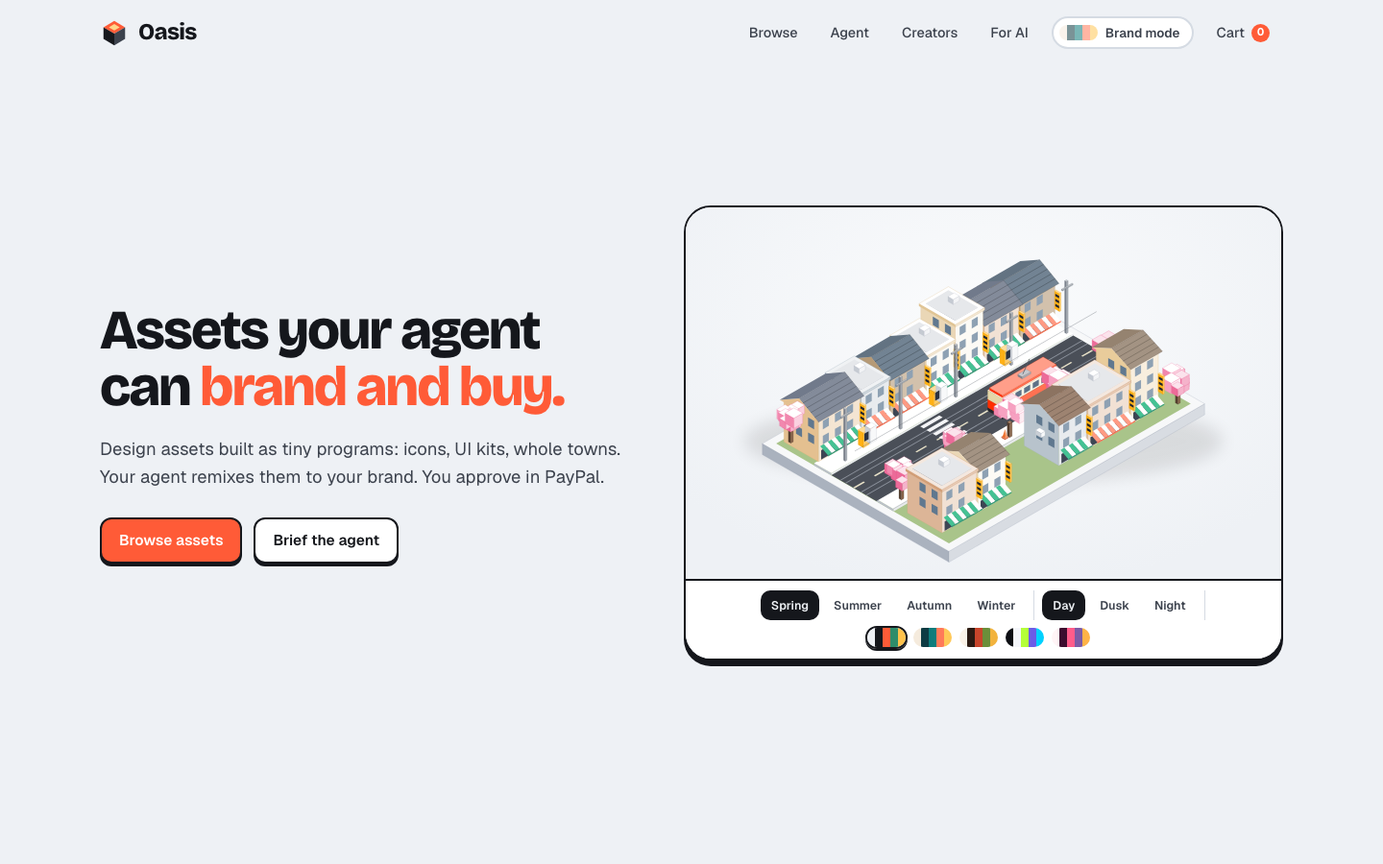
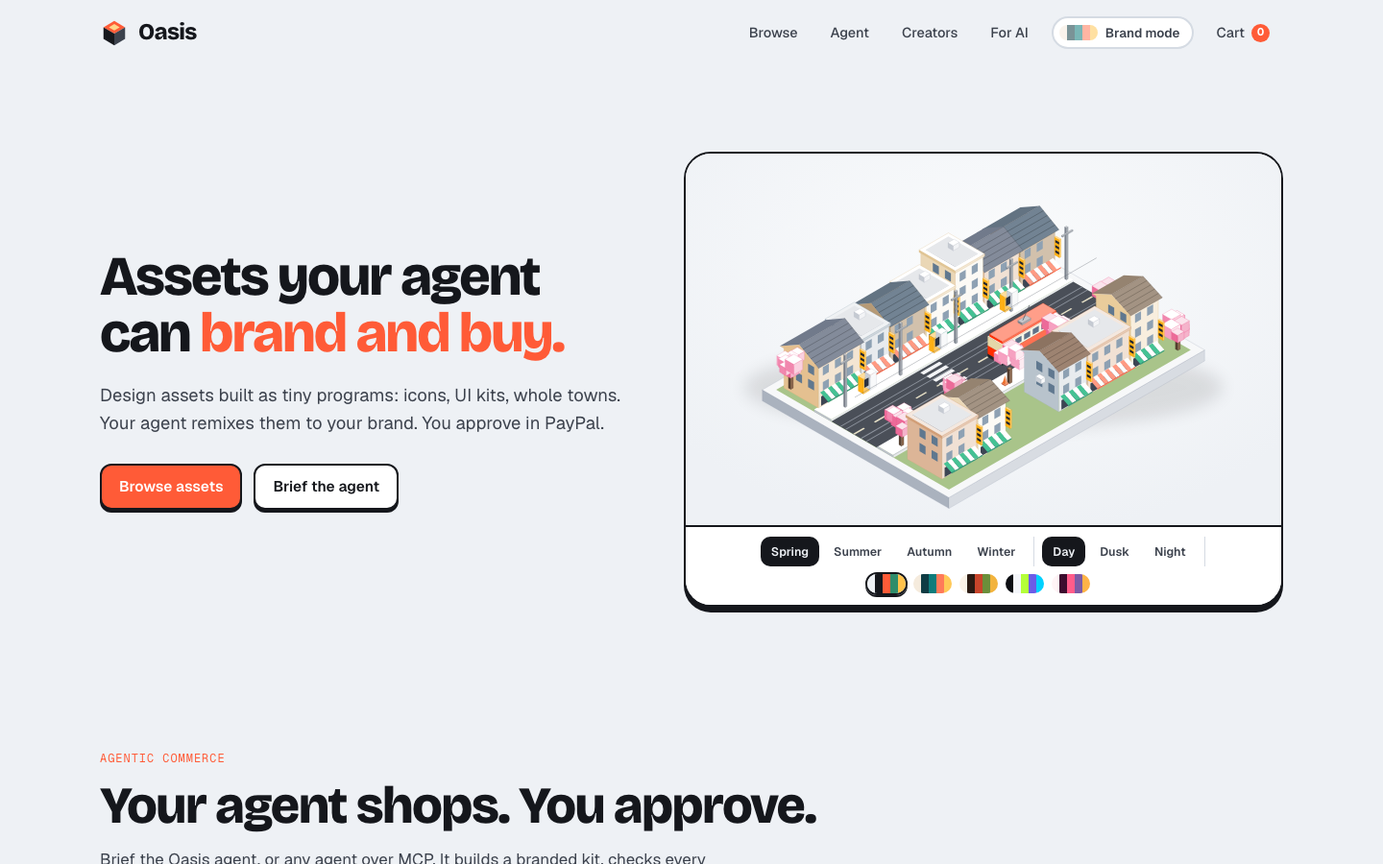
Agent page opens on the finished kit; rate limits, public MCP counter; replayed webhooks can't recapture
- Replay opens on the payoff: kit, itemised approval with reasons, cap meter; plays in ~12 s
- express-rate-limit on /mcp (120/min), create_order and /api/orders (10/min), /api/agent (6/min)
- /api/stats/mcp counts requests, tool calls and clients; shown on For AI with client configs
- Fix: a replayed CHECKOUT.ORDER.APPROVED after a refund called capture again; terminal states now return early (test added)

diff --git a/public/app.js b/public/app.js
@@ -608,7 +608,7 @@ function pageAgent() {
     const items = replayKit || cart.items;
     const total = items.reduce((s, i) => s + i.price, 0);
     $("#kit").innerHTML = items.length
-      ? `<div class="kit">${items.map((i) => `<div class="item"><img src="${esc(i.previewUrl)}" alt=""/><div><span>${esc(i.title)}</span><b>${money(i.price)}</b></div></div>`).join("")}</div><div class="total"><span>Total</span><b>${money(total)}</b></div>${replayKit ? `<p class="muted" style="margin:10px 0 0;font-size:12.5px">From the recorded run. Your own cart is untouched.</p>` : ""}`
+      ? `<div class="kit${items.length >= 4 ? " compact" : ""}">${items.map((i) => `<div class="item"><img src="${esc(i.previewUrl)}" alt=""/><div><span>${esc(i.title)}</span><b>${money(i.price)}</b></div></div>`).join("")}</div><div class="total"><span>Total</span><b>${money(total)}</b></div>${replayKit ? `<p class="muted" style="margin:10px 0 0;font-size:12.5px">From the recorded run. Your own cart is untouched.</p>` : ""}`
       : `<div class="empty">Remixes the agent picks land here.</div>`;
   };
   drawKit();
@@ -660,7 +660,7 @@ function pageAgent() {
             if (!replayKit) store.set("oasis.agent", session);
           } else if (ev === "cart_add") {
             const item = { ...data, previewUrl: data.previewUrl.replace(/^https?:\/\/[^/]+/, "") };
-            if (replayKit) replayKit.push(item); else cart.add(item);
+            if (!replayKit) cart.add(item);
             drawKit();
           } else if (ev === "checkout") {
             showCheckout(data);
@@ -678,12 +678,21 @@ function pageAgent() {
     const rec = await api("/replays/tidepool.json");
     if (!document.body.contains(log) || run !== replayRun) return;
     log.innerHTML = "";
-    replayKit = [];
+    // Open on the payoff: the finished kit and the approval the agent asks for. The log below shows how it got there.
+    replayKit = rec.events.filter(([e]) => e === "cart_add").map(([, d]) => ({ ...d, previewUrl: d.previewUrl.replace(/^https?:\/\/[^/]+/, "") }));
     drawKit();
+    const cap = 20, total = replayKit.reduce((s, i) => s + i.price, 0);
+    $("#checkout").innerHTML = `<div class="approve">
+      <p class="approve-head">What the agent asked you to approve</p>
+      <ul>${replayKit.map((i) => `<li><span><b>${esc(i.title)}</b>${i.reason ? `<em>${esc(i.reason)}</em>` : ""}</span><b>${money(i.price)}</b></li>`).join("")}</ul>
+      <div class="capmeter"><i style="width:${Math.min(100, (total / cap) * 100)}%"></i></div>
+      <p class="capnote ok">${money(total)} of your ${money(cap)} cap. The server refuses anything over it.</p>
+      <p class="muted" style="font-size:12px;margin:8px 0 0">In a live run the PayPal button appears here and only you can approve it. This server has no PayPal sandbox keys yet, so the recording stops at the order.</p>
+    </div>`;
     add(`<i></i>Replay of a real run recorded ${esc(new Date(rec.recorded).toLocaleString())}. Nothing here is staged.`, "toolrow");
     add(esc(rec.brief), "msg user");
     for (const [ev, data] of rec.events) {
-      await new Promise((r) => setTimeout(r, ev === "text" ? 400 : 550));
+      await new Promise((r) => setTimeout(r, ev === "text" ? 260 : 140));
       if (!document.body.contains(log) || run !== replayRun) return;
       handle(ev, data);
     }
@@ -822,8 +831,10 @@ function pageAgents() {
   app.innerHTML = `<div class="wrap" style="max-width:900px">
     <div class="crumbs"><h1>For AI agents</h1></div>
     <p style="font-size:17px" class="muted">Oasis is built to be shopped by agents. One MCP endpoint, no key to browse. Payments always come back to a human in PayPal.</p>
+    <div class="panel" id="mcp-live"><h3>Live traffic</h3><p class="muted" style="margin:0">Counting…</p></div>
     <div class="panel"><h3>Claude Code</h3><pre class="code">claude mcp add --transport http oasis ${esc(o)}/mcp</pre></div>
-    <div class="panel"><h3>Any MCP client</h3><pre class="code">{
+    <div class="panel"><h3>Claude Desktop and claude.ai</h3><p style="margin:0 0 8px">Settings → Connectors → Add custom connector, then paste:</p><pre class="code">${esc(o)}/mcp</pre></div>
+    <div class="panel"><h3>Cursor, VS Code and other MCP clients</h3><p style="margin:0 0 8px"><span class="mono">.cursor/mcp.json</span> or your client's MCP config:</p><pre class="code">{
   "mcpServers": {
     "oasis": { "type": "http", "url": "${esc(o)}/mcp" }
   }
@@ -838,7 +849,22 @@ function pageAgents() {
     <div class="panel"><h3>Plain HTTP</h3><pre class="code">GET ${esc(o)}/llms.txt
 GET ${esc(o)}/api/assets?q=pricing&amp;kind=ui
 GET ${esc(o)}/api/assets/pricing-card/render.svg?preset=Indigo</pre></div>
+    <div class="panel"><h3>What the server enforces</h3><ul class="plain">
+      <li>Prices come from the catalogue, never from the agent.</li>
+      <li><span class="mono">max_total_usd</span> is checked before PayPal is called; an order over it is refused (HTTP 402).</li>
+      <li>At most 10 orders a minute per client and 120 MCP calls a minute; over that, JSON-RPC error <span class="mono">-32029</span>.</li>
+      <li>No agent can pay. Every order waits for a human to approve it in PayPal.</li>
+    </ul><p style="margin:10px 0 0"><a href="https://github.com/machmoon/oasis/blob/main/docs/mcp-session.md">Read a recorded session</a> of an outside agent shopping by URL alone.</p></div>
   </div>`;
+  api("/api/stats/mcp").then((s) => {
+    const box = $("#mcp-live");
+    if (!box) return;
+    const tools = Object.entries(s.tools).sort((a, b) => b[1] - a[1]);
+    const clients = Object.entries(s.clients).sort((a, b) => b[1] - a[1]);
+    box.innerHTML = `<h3>Live traffic <span class="muted" style="text-transform:none;letter-spacing:0;font-weight:400">since ${esc(new Date(s.since).toLocaleDateString())}</span></h3>
+      <div class="stats3"><div><b>${s.requests}</b><span>MCP requests</span></div><div><b>${Object.values(s.tools).reduce((a, b) => a + b, 0)}</b><span>tool calls</span></div><div><b>${clients.length}</b><span>distinct clients</span></div></div>
+      ${tools.length ? `<p class="muted" style="margin:10px 0 0;font-size:13px">${tools.map(([t, n]) => `<span class="mono">${esc(t)}</span> ${n}`).join(" · ")}${clients.length ? `<br/>Clients: ${clients.map(([c, n]) => `${esc(c)} (${n})`).join(", ")}` : ""}</p>` : ""}`;
+  }).catch(() => {});
 }
 
 // ---------- router ----------

diff --git a/server/app.js b/server/app.js
@@ -1,4 +1,5 @@
 import express from "express";
+import { rateLimit } from "express-rate-limit";
 import fs from "node:fs";
 import crypto from "node:crypto";
 import { config, paypalConfigured } from "./config.js";
@@ -16,6 +17,7 @@ export async function createApp() {
   await catalog.load();
   const app = express();
   app.disable("x-powered-by");
+  app.set("trust proxy", 1); // Render terminates TLS in front of us; rate limits key on the client's IP.
   app.use(express.json({ limit: "1mb" }));
 
   const wrap = (fn) => (req, res) =>
@@ -151,7 +153,36 @@ export async function createApp() {
     }
   }));
 
-  app.post("/mcp", handleMcp);
+  // Abuse controls for the unauthenticated endpoints, using express-rate-limit's fixed windows.
+  // Orders are the tightest: an agent has no reason to open more than a few a minute, and each is a PayPal call.
+  const limit = (limitPerMin, jsonRpc = false) => rateLimit({
+    windowMs: 60_000, limit: limitPerMin, standardHeaders: "draft-8", legacyHeaders: false,
+    handler: (req, res) => res.status(429).json(jsonRpc
+      ? { jsonrpc: "2.0", error: { code: -32029, message: "Rate limited. Slow down and retry in a minute." }, id: req.body?.id ?? null }
+      : { error: "Rate limited. Slow down and retry in a minute." }),
+  });
+  const mcpLimit = limit(120, true), mcpOrderLimit = limit(10, true), orderLimit = limit(10), agentLimit = limit(6);
+  app.use("/api/orders", (req, res, next) => (req.method === "POST" ? orderLimit(req, res, next) : next()));
+  app.use("/api/agent", agentLimit);
+
+  // A public count of MCP traffic, so "agents use this" is a number anyone can check.
+  const mcpStats = (await store.get("stats", "mcp")) || { since: new Date().toISOString(), requests: 0, tools: {}, clients: {} };
+  let statsDirty = false;
+  setInterval(() => { if (statsDirty) { statsDirty = false; store.put("stats", "mcp", mcpStats).catch(() => {}); } }, 10_000).unref();
+  const countMcp = (req, res, next) => {
+    const m = req.body || {};
+    mcpStats.requests++;
+    if (m.method === "tools/call" && m.params?.name) mcpStats.tools[m.params.name] = (mcpStats.tools[m.params.name] || 0) + 1;
+    if (m.method === "initialize") {
+      const c = String(m.params?.clientInfo?.name || "unknown").slice(0, 40);
+      mcpStats.clients[c] = (mcpStats.clients[c] || 0) + 1;
+    }
+    statsDirty = true;
+    next();
+  };
+  const isCreate = (req) => req.body?.method === "tools/call" && req.body?.params?.name === "create_order";
+  app.get("/api/stats/mcp", (req, res) => res.set("Cache-Control", "no-cache").json(mcpStats));
+  app.post("/mcp", mcpLimit, (req, res, next) => (isCreate(req) ? mcpOrderLimit(req, res, next) : next()), countMcp, handleMcp);
   app.get("/mcp", (req, res) => res.status(405).json({ jsonrpc: "2.0", error: { code: -32000, message: "Method not allowed. POST JSON-RPC to /mcp." }, id: null }));
 
   // PayPal sends the payer back here after approving an order an agent created.

diff --git a/public/styles.css b/public/styles.css
@@ -381,3 +381,13 @@ footer .wrap { display: flex; gap: 18px; flex-wrap: wrap; justify-content: space
 .ordermock div { display: flex; justify-content: space-between; align-items: baseline; border-top: 1px solid #e3e6ec; padding-top: 8px; font-size: 13px; }
 .ordermock b { font-family: var(--display); font-size: 20px; }
 .flowstep.paypal .fine { font-size: 12px; opacity: .8; margin: 10px 0 0; }
+.capmeter { height: 8px; border-radius: 99px; background: var(--bg-2); border: 1.5px solid var(--ink); overflow: hidden; margin: 10px 0 6px; }
+.capmeter i { display: block; height: 100%; background: var(--accent); }
+.kit.compact { grid-template-columns: repeat(4, minmax(0, 1fr)); gap: 8px; }
+.kit.compact .item div { padding: 5px 7px; font-size: 11px; }
+.kit.compact .item div span { overflow: hidden; text-overflow: ellipsis; white-space: nowrap; }
+.stats3 { display: grid; grid-template-columns: repeat(3, minmax(0, 1fr)); gap: 10px; }
+.stats3 div { border: 2px solid var(--ink); border-radius: 14px; padding: 10px 12px; background: var(--bg); }
+.stats3 b { display: block; font-family: var(--display); font-size: 28px; line-height: 1.05; }
+.stats3 span { font-size: 12.5px; color: var(--ink-2); }
+ul.plain { margin: 0; padding-left: 18px; display: grid; gap: 6px; }

diff --git a/server/commerce.js b/server/commerce.js
@@ -96,7 +96,8 @@ export function capture(orderId) {
 async function doCapture(orderId) {
   const existing = await store.get("orders", orderId);
   if (!existing) throw Object.assign(new Error("Unknown order"), { status: 404 });
-  if (existing.status === "COMPLETED") return existing;
+  // Terminal states never capture again: a replayed APPROVED webhook must not resurrect a refunded order.
+  if (["COMPLETED", "REFUNDED", "AMOUNT_MISMATCH"].includes(existing.status)) return existing;
   const result = await paypal.captureOrder(orderId);
   const cap = result.purchase_units?.[0]?.payments?.captures?.[0];
   // Licences are only issued for exactly the amount and currency this server priced.

diff --git a/judging/latest.md b/judging/latest.md
@@ -1,9 +1,9 @@
-Panel 10/1/2026, 11:03:05 PM: totals Oasis 118, R1 164, R2 121, R3 102, R4 89, R5 139
-- PayPal Developer Advocate: Oasis 29 {"tech":7,"design":7,"impact":5,"idea":6,"presentation":4}; R1 40; Oasis describes the deepest PayPal integration in this field: Orders v2 with server-verified capture, idempotency, signature-verified webhooks, refunds that revoke licences and refund-gated Payouts, all covered by 23 passing tests, but the live server reports paypalReady:false and agentReady:false, the agent only replays a recording, the Devpost entry is unsubmitted, its numbers are already stale against the logs (47/22/25 builds claimed vs 55/23/32 logged, 66 vs 64 assets), and the core concept and visuals closely follow Polyfork, so a judge cannot yet watch the one thing that makes it a PayPal project actually work.
-  fixes: Configure PayPal sandbox credentials on the Render deployment so /api/config shows paypalReady:true. Publish a sandbox buyer login in the README so a judge can complete create order, approve in PayPal, server capture and licensed SVG/PNG download on the live site in under two minutes. | Turn the live agent and the MCP checkout path on, using a hard server-side cap and rate limit. Record an unedited video of an MCP client calling create_order with max_total_usd, a human approving in the PayPal window with the agent's name visible, and get_order returning the licence. This replaces 'Watch a real recorded run' with something verifiable. | Publish a public /proof page fed by real sandbox events: a PayPal order ID, its capture ID, a verified CHECKOUT.ORDER.APPROVED and PAYMENT.CAPTURE.REFUNDED webhook log, and a Payouts batch ID splitting a fork-of-a-fork royalty in exact cents. Either wire PayPal Commerce Platform multiparty (payee plus platform_fees) now, or say clearly that Payouts is a sandbox stand-in. | Submit on Devpost and stop committing. Regenerate every number in the writeup from the live catalogue and factory log so assets, forks and build counts match /api/config and PROOF.md. Sharpen the difference from Polyfork with one 2D-specific proof, such as Brand Mode re-skinning one real customer's kit in a single PayPal order.
-- PayPal Engineering Manager: Oasis 32 {"tech":7,"design":8,"impact":6,"idea":6,"presentation":5}; R1 41; Oasis has the right PayPal primitives on paper: server-priced verified capture, idempotent create/capture/refund, signed webhooks, a server-enforced spend cap and a sandboxed renderer, plus a polished store that matches Polyfork visually. But the live deployment reports paypalReady:false and agentReady:false, the agent page falls back to a recorded run, the Devpost is unsubmitted and the writeup's counts disagree with the repo, so none of the agent-to-PayPal flow can be verified end to end and it trails Polyfork and Countersign.
-  fixes: Configure PayPal sandbox credentials and the agent key on the Render deployment so /api/config reports paypalReady and agentReady as true. A judge should be able to run brief, cart, create_order under the cap, approve in PayPal, server capture and licensed download live, including through the public /mcp endpoint. | Submit on Devpost with a short unedited video of a real sandbox run. It should show the agent name and cap on PayPal's approval screen, a closed-tab capture via the CHECKOUT.ORDER.APPROVED webhook, an amount-mismatch auto-refund and a refund revoking the licence. | Generate every number in the writeup from source and freeze the repo before judging. The writeup says 66 assets and 47/22/25 factory builds, but the repo shows 64 built-in assets and 55/23/32 builds, and the last commit landed 30 seconds before review. Mismatched self-reported metrics cost credibility with a payments reviewer. | Harden the payment path beyond 23 unit tests. Add a sandbox-backed end-to-end suite covering the full flow, MCP cap bypass attempts and replayed or forged webhooks. Either ship the Commerce Platform payee/platform_fees split now or demonstrate one real held royalty payout with a refund cancelling it.
-- PayPal Senior Product Manager: Oasis 28 {"tech":7,"design":7,"impact":4,"idea":5,"presentation":5}; R1 41; Oasis is a well-engineered and visually coherent store with a correct agentic-payments model (the agent creates the order, the human approves in PayPal, the server enforces the cap), but it closely follows Polyfork's concept, factory and visual language while showing none of Polyfork's traction, and on the live site paypalReady and agentReady are both false and the Devpost entry is unsubmitted, so a judge cannot run the core PayPal flow.
-  fixes: Make the core loop runnable for a judge today. Enable PayPal sandbox credentials and the agent on the live deploy so paypalReady and agentReady are true. A judge should be able to go brief → branded kit → PayPal approval screen showing the agent name and spending cap → capture → licensed download. Add a 2-minute video of that run and submit the Devpost entry. | Replace claims with evidence of demand. Report real numbers: external agents calling /mcp, distinct users who ran a brief, sandbox or live orders approved, and creators who forked and got paid. Even small, honest numbers beat zero against a reference with 54 paying customers and $4,428 in revenue. | Differentiate from Polyfork on the PayPal side, because the store, knobs, factory, grader and diorama art are all borrowed. Lead the homepage and demo with what is new: the agent proposes and the human approves, with the per-item reason shown in PayPal; the server-enforced cap; and the fork-of-a-fork royalty chain paid by Payouts and held through the refund window. Show a real payout ledger for one chain. | Fix the trust and UX gaps. Reconcile stale numbers (the writeup says 47/22/25 factory builds but the log shows 55/23/32; config reports 66 assets but the catalogue has 64 built-in). Replace the agent page's 'live agent is resting' line with an auto-playing recorded run. Fill the empty space below the homepage hero with a how-it-works section and a mock of the PayPal approval screen. Put the Licence buy button above the fold on asset pages.
-- Sponsor developer-relations engineer (hosting platform): Oasis 29 {"tech":7,"design":7,"impact":4,"idea":6,"presentation":5}; R1 42; Oasis is a well-crafted, honestly engineered take on Polyfork's programs-as-assets idea, with a real PayPal twist: the agent creates the order and the human approves it. But the deployed site has PayPal and the agent switched off (paypalReady:false, agentReady:false), the Devpost is unsubmitted, the README numbers are already stale, and there are no users, so it proves much less than it claims.
-  fixes: Turn on PayPal sandbox and the agent on the live Render deployment so a judge can type a brief, see the cap enforced, approve in PayPal's own window and download a licensed remix. Right now the headline flow exists only as a 'recorded run'. | Submit on Devpost with a video under 3 minutes covering the whole loop: brief, branded kit, PayPal approval screen showing the agent's name and cap, server capture, licensed download, then a fork-of-a-fork sale producing a sandbox Payout split. Show the PayPal dashboard as external proof. | Generate every number in the README from the same source as PROOF.md and freeze the build before judging. The README says 66 assets and factory v2 at 47/22/25, while the live check shows 64 built-in and 55/23/32; stale numbers undermine the 'measure the artefact' pitch. | Stop leading with a Polyfork lookalike. The isometric low-poly town hero is near-identical to the R1 aesthetic. Lead the homepage with what is actually yours: a live Brand Mode demo that reskins a grid of 66 assets as you pick a palette, plus the agent-to-PayPal approval card. Also fill the empty space below the home fold and fix the cut-off brief list on the agent page.
+Panel 10/1/2026, 11:12:32 PM: totals Oasis 116, R1 167, R2 119, R3 102, R4 89, R5 140
+- PayPal Developer Advocate: Oasis 29 {"tech":7,"design":7,"impact":5,"idea":6,"presentation":4}; R1 41; Oasis describes a PayPal integration that is deep and correctly designed: server-verified capture, PayPal-Request-Id idempotency, signature-verified webhooks, refunds that revoke licences, and Payouts held past the refund window. But the live deploy reports paypalReady:false and agentReady:false, the agent page is a replay stalled on its first step, and Devpost is unsubmitted, so a judge cannot complete a single sandbox purchase on an idea that openly derives from Polyfork.
+  fixes: Make the demo actually run. Set the PayPal secret and the Claude key on Render so /api/config returns paypalReady:true and agentReady:true. Publish a sandbox buyer login on the home page so a judge can go from License, to the PayPal approval window, to capture, to the licensed download in under a minute. | Submit to Devpost with a 2-3 minute video of one unbroken real run. It should show the brief, then the agent's remixes, then the order with the agent name and spending cap visible in PayPal's approval screen, then capture, the download, and the webhook and Payout appearing in the sandbox dashboard. | Fix the agent replay so it plays through to the end. The screenshot stops at 'Searching app icon' with an empty kit and checkout panel. The replay should fill the kit, show each licence with the agent's reason, and end on a real sandbox order ID and payer-action link, ideally with a 'run it live' button beside it. | Prove the PayPal claims in a way a developer can learn from. Add real sandbox order, capture, refund and payout-batch IDs, plus verified webhook event logs, to PROOF.md and link them from the footer. Then move the royalty split from Payouts to multiparty Orders (per-item payee plus platform_fees) now rather than 'in production', so refunds unwind the split natively and the fork-royalty feature showcases PayPal's marketplace primitives.
+- PayPal Engineering Manager: Oasis 29 {"tech":6,"design":7,"impact":5,"idea":6,"presentation":5}; R1 41; Oasis has the right payment design on paper (server-priced capture verification, PayPal-Request-Id idempotency, signed webhooks, a server-enforced spending cap, refund-window-held Payouts) and a clean, coherent store, but the live deploy reports paypalReady:false and agentReady:false, the agent page is a replay, and the Devpost is unsubmitted, so none of the agent-to-PayPal flow is provable end to end, and the core idea is openly derivative of Polyfork, which has real customers and revenue.
+  fixes: Set the PayPal sandbox credentials and the Claude key on the Render deploy so /api/config returns paypalReady:true and agentReady:true. Publish sandbox buyer credentials so a judge can run the full path live: brief, branded kit, order under the cap, approval in PayPal, server-side capture, licensed download. | Submit the Devpost with a 2-3 minute unedited video of a live run. Show the PayPal approval window displaying the agent name and cap, a webhook-driven capture after closing the tab, a deliberate amount-mismatch refund, and a refund revoking the licence. | Prove the MCP path with real artefacts. Connect an external agent such as Claude Desktop to /mcp, attempt a create_order above max_total_usd and show the server refusing it, then complete one under the cap. Commit the real sandbox order, capture, refund and payout IDs with their verified webhook events to PROOF.md. | Harden agent-initiated payments beyond 23 tests. Add rate limiting and abuse controls on the unauthenticated /mcp create_order, webhook replay/duplicate-delivery tests, and an end-to-end Playwright test against the PayPal sandbox in CI. Either implement the Commerce Platform payee/platform_fees split or test the Payouts hold-and-cancel path against the sandbox rather than only in unit tests.
+- PayPal Senior Product Manager: Oasis 28 {"tech":6,"design":7,"impact":4,"idea":6,"presentation":5}; R1 42; Oasis has the right PayPal primitive for agentic commerce (the agent creates the order, the human approves it, the server enforces the cap) and a disciplined build log, but it is an unsubmitted Polyfork-for-SVG with no users or revenue and a live site where both PayPal and the agent are switched off, so it currently proves less than the winners it has to beat.
+  fixes: Turn on paypalReady and agentReady in the live deploy so a judge can run the whole flow themselves: brief, branded kit, PayPal sandbox order showing the agent's name and the cap, approve, capture, licensed download. Also post a 90-second video of that exact run with the PayPal approval screen visible. | Bring evidence of demand, because right now there is none. Get real people and external agents to use it, then publish the counts: MCP calls from external keys, sandbox or real orders captured, and a few named testers who branded a kit. Polyfork wins on 54 paying customers, and Oasis has zero. | Rebuild the agent page around its payoff. The replay screenshot shows a near-empty chat and an empty kit and checkout. Open on the finished state (four branded assets, itemised cart, cap meter, PayPal button), then let the replay explain how it got there. | Submit on Devpost, and sharpen the why-pay story against free shadcn/Figma kits and image generation. Lead with a one-click Brand Mode before/after on your own palette, and prove the royalty chain with a real sandbox Payouts batch ID and webhook trace. That also helps the visuals, especially the isometric town, read as more than a Polyfork reskin.
+- Sponsor developer-relations engineer (hosting platform): Oasis 30 {"tech":7,"design":7,"impact":5,"idea":6,"presentation":5}; R1 43; Oasis is a well-crafted, honestly documented Polyfork-for-2D with a sharp agent-proposes, human-approves PayPal primitive, but the live site has both PayPal and the agent switched off (paypalReady:false, agentReady:false), the agent 'replay' screenshot stalls on one search step with an empty kit, and nothing is on Devpost yet, so its strongest claims are still unproven to a judge.
+  fixes: Turn the live deploy on: set the PayPal sandbox credentials and the Claude key so paypalReady and agentReady are true. Let a judge run a real brief through to PayPal's approval window, showing the agent name and spending cap, then capture and download. Until then, make the replay finish within about 10 seconds: a filled 'Your kit' panel and a visible PayPal button, not a mostly empty chat. | Submit to Devpost with a 2-minute video of one unbroken take covering five steps: the Tidepool brief, the agent rejecting a muddy render and remixing, the branded kit, PayPal sandbox approval and capture, and a fork-of-a-fork sale producing three sandbox Payouts. Put the order IDs and payout batch IDs in PROOF.md. | Make the differentiation from Polyfork visible above the fold rather than buried in the README. Show Brand Mode as a before/after strip on the home page: paste a palette and watch the whole browse grid re-skin. Add a short 'agent can ask, can't pay' diagram, because the hero isometric town currently reads as a Polyfork homage. | Prove the MCP endpoint is usable by outside agents. Add a copy-paste Claude Desktop/Cursor config snippet on the For AI page and a public counter of real /mcp calls. Include one recorded third-party agent session that ends with create_order and a human-approved capture.

diff --git a/docs/PROOF.md b/docs/PROOF.md
@@ -3,7 +3,7 @@
 Generated by `node scripts/proof.mjs` on 2026-10-02 from the test run and
 [`factory/stats.jsonl`](../factory/stats.jsonl). Nothing here is typed by hand.
 
-## Tests: 23/23 passing
+## Tests: 25/25 passing
 
 - ✔ prices come from the server, never the client
 - ✔ free-only carts are refused
@@ -14,6 +14,7 @@ Generated by `node scripts/proof.mjs` on 2026-10-02 from the test run and
 - ✔ royalties are held through the refund window, then paid up the fork chain
 - ✔ a refund inside the window cancels held royalties, so creators are never paid on refunded sales
 - ✔ agent orders over the human's spending cap are refused; attribution reaches PayPal
+- ✔ webhooks: PayPal's duplicate and replayed deliveries change nothing twice
 - ✔ every catalogue asset loads and renders at defaults
 - ✔ knob values are clamped, snapped and validated against the schema
 - ✔ brand mode maps roles and follows the brand's darkness
@@ -28,6 +29,7 @@ Generated by `node scripts/proof.mjs` on 2026-10-02 from the test run and
 - ✔ paid assets cannot be downloaded without a licence; free ones can
 - ✔ paid previews are watermarked; brand mode re-skins renders
 - ✔ a client cannot set its own price
+- ✔ MCP create_order is rate limited per client, and MCP traffic is counted publicly
 
 The PayPal client is a fake in these tests (`setPaypalClient`), so they cover Oasis's own logic: pricing, the
 capture race, amount checks, refunds, held royalties and webhooks. They do not prove the sandbox round trip.

diff --git a/SUBMISSION.md b/SUBMISSION.md
@@ -93,7 +93,7 @@ system, no network, a 48 MB heap. An allocation storm can outrun QuickJS's own i
 testing), so every server render runs in a worker thread that is **terminated at 3 s**. Output must be SVG and is only
 shown through `<img>`. Paid source never leaves the server; catalogue previews are low-res raster comps.
 
-**Tested.** 23/23 tests pass: price tampering, the capture race, amount-mismatch refunds, refund revocation,
+**Tested.** 25/25 tests pass: price tampering, the capture race, amount-mismatch refunds, refund revocation,
 webhook handling, the spending cap, royalty cents along a fork chain, sandbox escapes and the deadline kill.
 
 **Stack.** Node + Express, a no-build vanilla JS store, Claude Opus 5.5 (agent, forks, factory, grader), MCP Streamable
